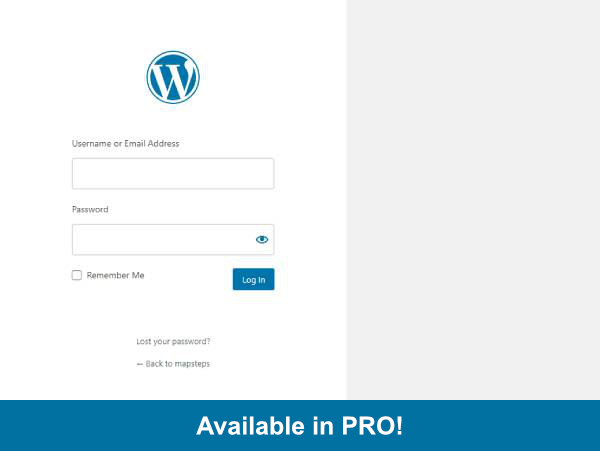
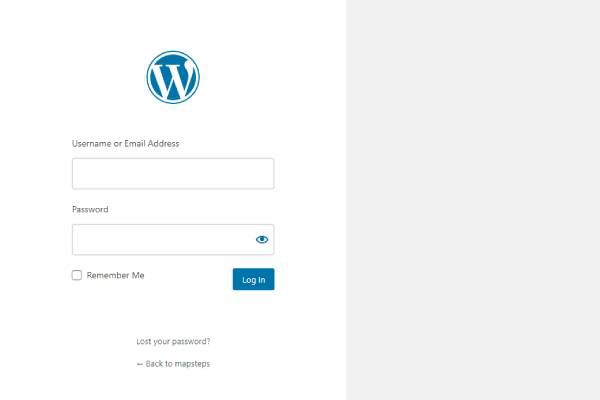
Login customizer: "Available in PRO!" in the admin color
The label was baked into the two PRO layout thumbnails in WordPress' old
blue. The thumbnails are cropped to the screenshot (600x400 like the
default one) and the label is real text under them, in the admin color
scheme's accent (--wp-admin-theme-color), free only.

diff --git a/modules/login-customizer/assets/css/controls.css b/modules/login-customizer/assets/css/controls.css
@@ -210,6 +210,17 @@ input::-moz-focus-outer {
 	transition: box-shadow 0.15s;
 }
 
+/* "Available in PRO!" under the PRO layouts (free only), in the admin color scheme's accent */
+.udb-customize-control-template-pro {
+	display: block;
+	padding: 6px;
+	font-weight: 600;
+	text-align: center;
+	color: #fff;
+	background: var(--wp-admin-theme-color, #3858e9);
+	border-radius: 0 0 2px 2px;
+}
+
 /**
  * UDB Image Control
  */

diff --git a/modules/login-customizer/controls/class-udb-customize-login-template-control.php b/modules/login-customizer/controls/class-udb-customize-login-template-control.php
@@ -108,6 +108,9 @@ class Udb_Customize_Login_Template_Control extends \WP_Customize_Control {
 				?>
 				<li class="udb-customize-control-template <?php echo esc_attr( $class ); ?>">
 					<img src="<?php echo esc_url( $template['thumbnail'] ); ?>" alt="Layout" data-template-name="<?php echo esc_attr( $template_name ); ?>" data-bg-image="<?php echo esc_url( $template['bg_image'] ); ?>">
+					<?php if ( 'default' !== $template_name && ! udb_is_pro_active() ) : ?>
+						<span class="udb-customize-control-template-pro"><?php esc_html_e( 'Available in PRO!', 'ultimate-dashboard' ); ?></span>
+					<?php endif; ?>
 				</li>
 			<?php endforeach; ?>
 		</ul>
